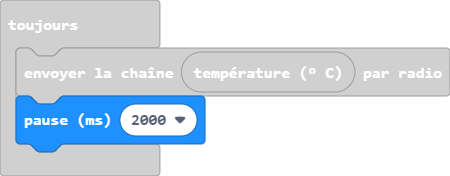
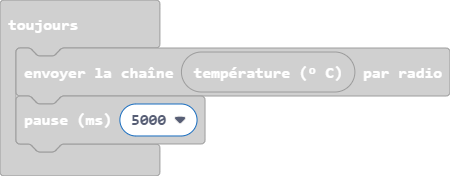
Mise à jour main.blocks, main.ts

Changed region(s): [[0.0311, 0.5398, 0.4667, 0.8807]]

diff --git a/main.ts b/main.ts
@@ -1,5 +1,5 @@
 radio.setGroup(105)
 basic.forever(function () {
     radio.sendString("" + (input.temperature()))
-    basic.pause(2000)
+    basic.pause(5000)
 })
